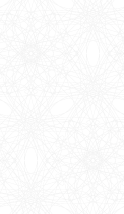
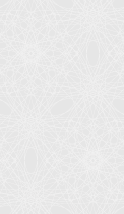
sick of bg_quote

diff --git a/app/assets/stylesheets/miv/index.css.sass b/app/assets/stylesheets/miv/index.css.sass
@@ -3,6 +3,7 @@
 body
   background:
     color: #F1F1F1
+    image: url(asset_path("background.png", "image"))
   color: #333
   font-family: "Helvetica Regular", Arial, sans-serif
   font-size: 13px
@@ -187,7 +188,8 @@ header.main
   border-bottom: 5px solid #FFF
   margin-bottom: 20px
   background:
-    image: url(asset_path("background.png", "image"))
+    color: #FFF
+    color: rgba(255, 255, 255, 0.5)
   //+background-image(linear-gradient(bottom, $lightgreen, #BED487))
   +box-shadow(0 0 2px #555)
 

diff --git a/app/assets/stylesheets/homepage.css.sass b/app/assets/stylesheets/homepage.css.sass
@@ -12,8 +12,7 @@ body[data-action="Index"][data-controller-name="Ideas"]
     section.text_intro
       h1
         background:
-          image: url(asset_path("bg-quote.png", "image"))
-          repeat: no-repeat
+          color: #FFF
         padding: 15px 18px
         line-height: 1.5em
         color: #444
